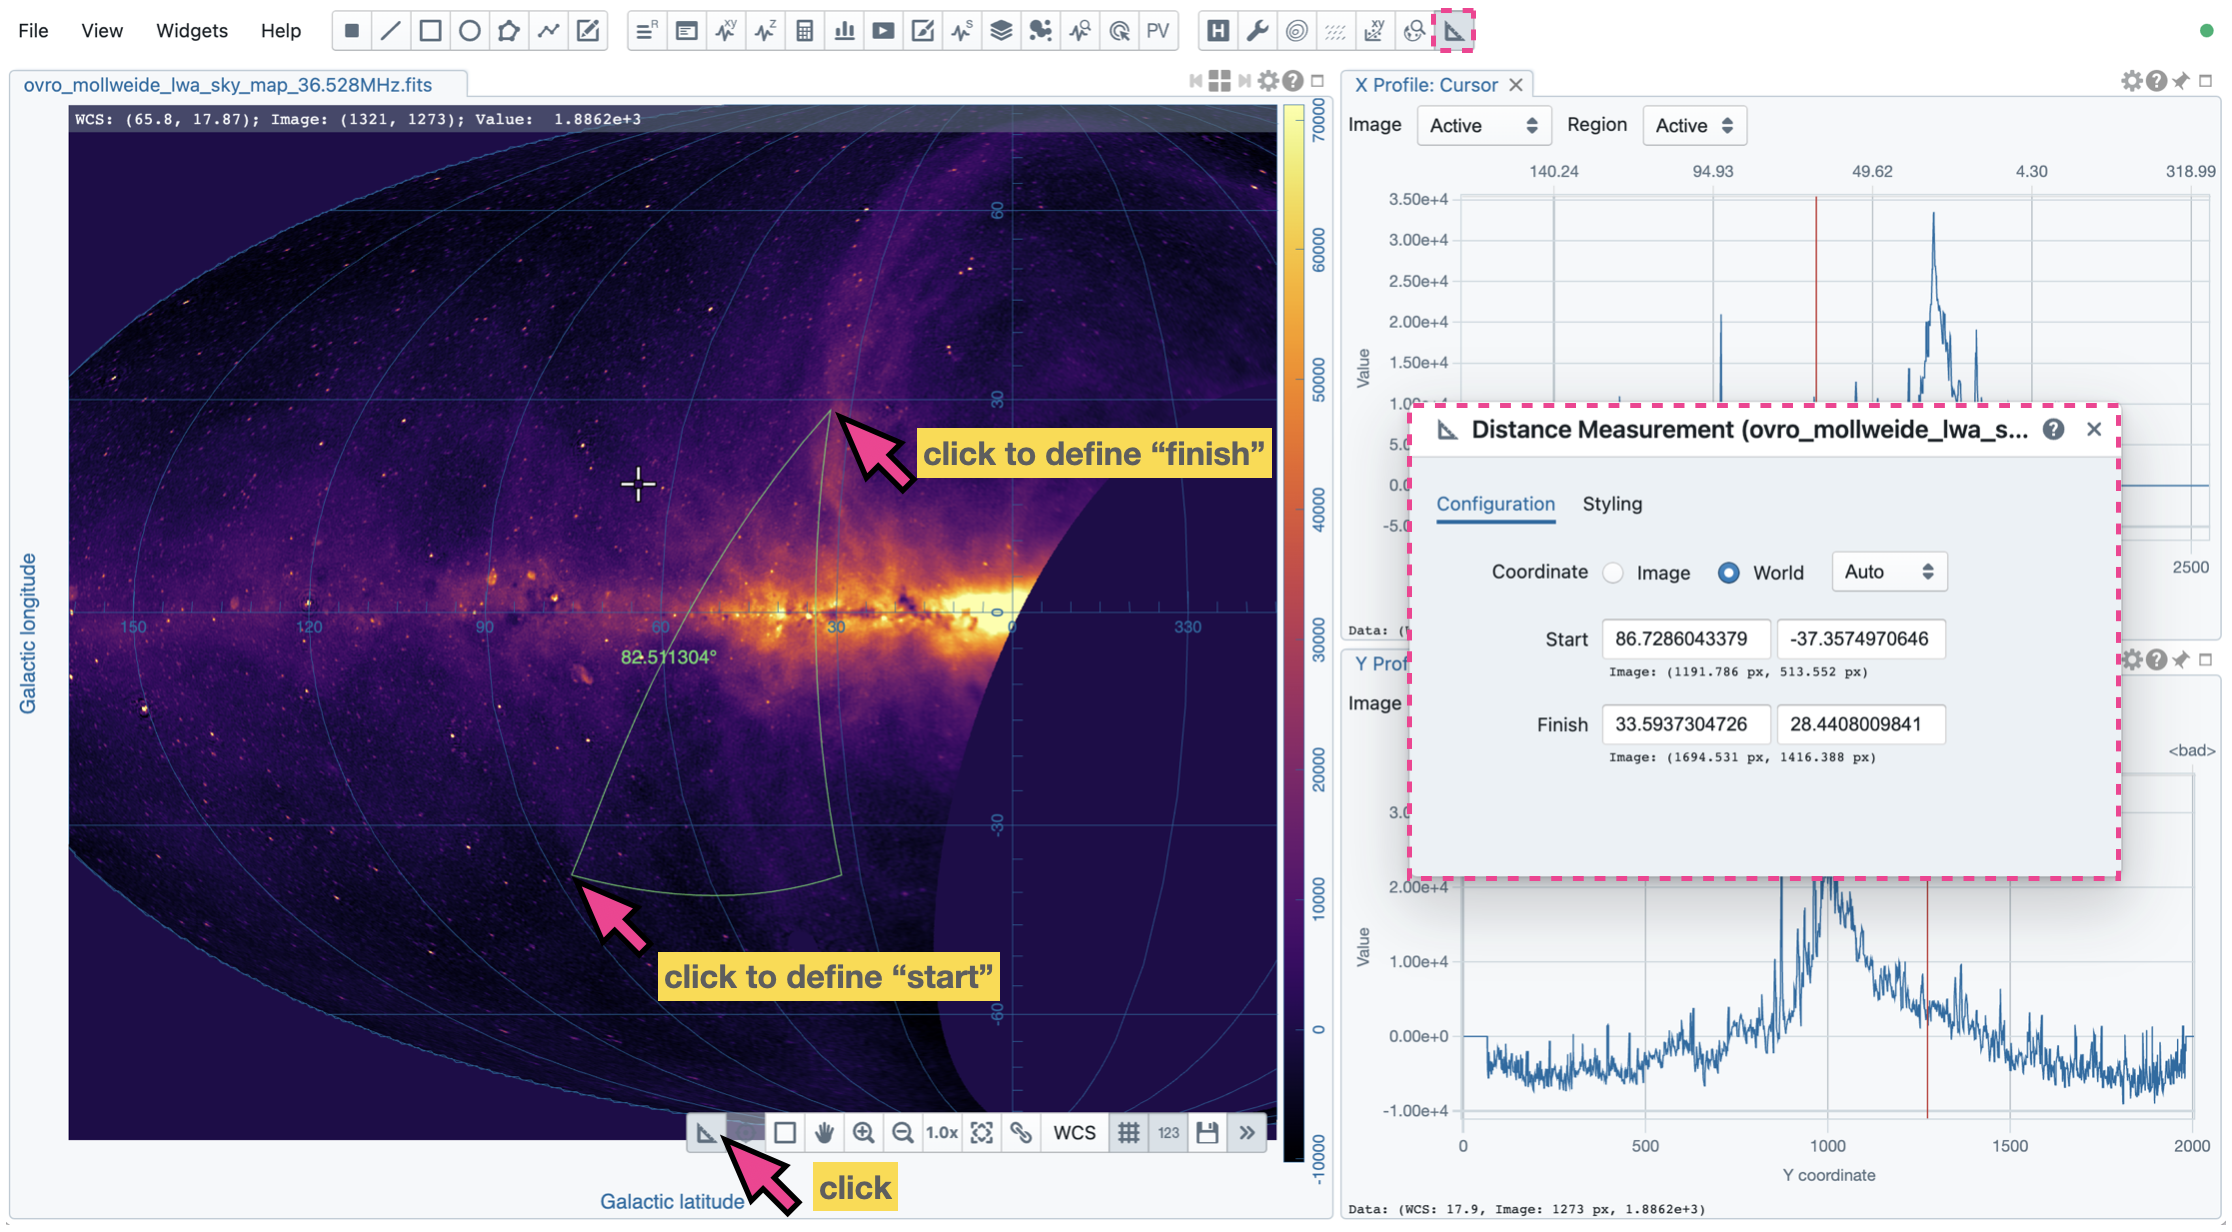
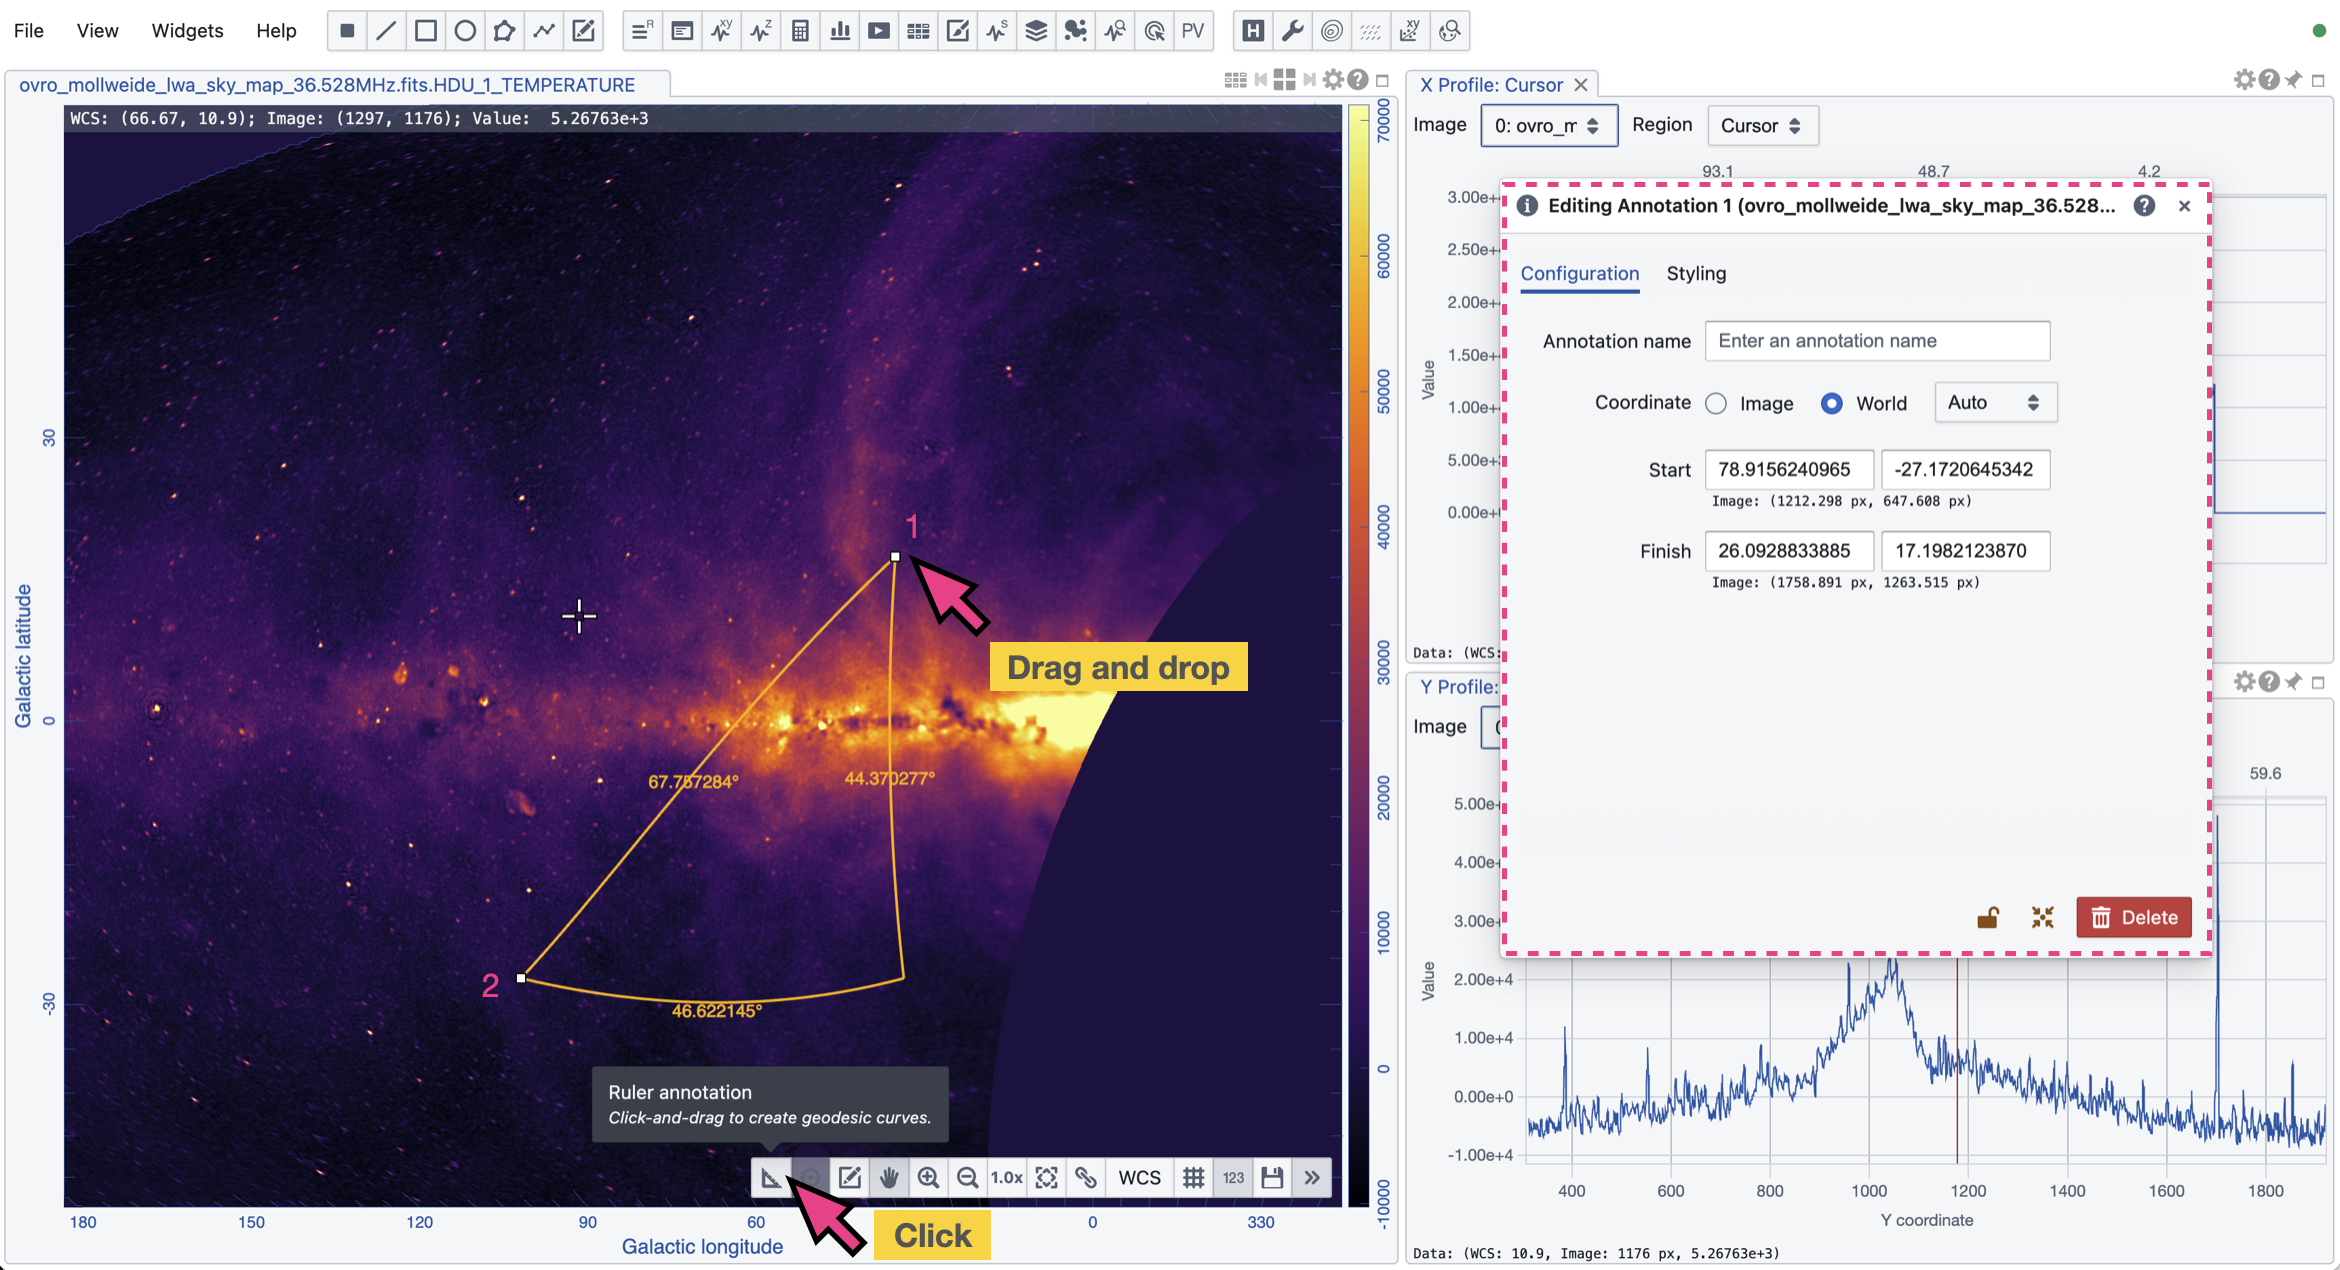
update region config dialog

Changed region(s): [[0.0, 0.0, 1.0, 1.0], [0.9892, 0.0, 1.0, 0.0308]]

diff --git a/source/region_configuration.rst b/source/region_configuration.rst
@@ -1,25 +1,61 @@
 Region configuration
 ====================
 
-work in progress...
+The Region Configuration Dialog providea an interface to configure the properties of a region of interest (ROI) or an annotation object (region for short hereafter). You can access the dialog by double-clicking on a region entry in the Region List Widget or by double-clicking on a region in the Image Viewer Widget.
 
+The dialog contains a "Configuration" tab and a "Styling" tab. The "Configuration" tab allows you to modify the properties of the region such as name and geometry. The "Styling" tab allows you to customize the appearance of the rendered region in the Image Viewer Widget. 
 
-
-
-
-.. _distance_measure_tool:
-
-Distance Measurement Tool
--------------------------
-The distance measurement tool is available from the toolbar of the Image Viewer or the dialog bar at the top of the GUI. To measure a geodesic distance on an image, you can use two mouse clicks to define a starting point and a finishing point, respectively, for the distance calculations. Alternatively, you can use the Distance Measurement Dialog to enter a pair of coordinates for the same purpose. 
-
-The result is visualized on the image, including the iso-longitude and iso-latitude geodesic lines. The appearance of the rendered geodesic lines can be customized in the "**Styling**" tab of the Distance Measurement Dialog. 
-
-You can have new measurements with pairs of clicks. Click the "**pan**" button in the toolbar to leave the state. A distance in pixel values will be provided if the geodesic distance cannot be calculated.
+The actual context in the two tabs depends on the type of the region or annotation. 
 
 .. raw:: html
 
-   <a href="_static/carta_fn_distance_measure.png" target="_blank">
-       <img src="_static/carta_fn_distance_measure.png" 
-           style="width:100%;height:auto;">
-   </a>
+   <img src="_static/carta_fn_region_config.png" 
+        style="width:80%;height:auto;">
+
+
+Using the buttons at the bottom of the dialog, you can also lock/unlock a region, center the region in the image viewer, or delete the region.
+
+
+Coordinate systems
+------------------
+The Region Configuration Dialog supports two major coordinate systems: world coordinates and image coordinates. The coordinate system can be selected with the "Coordinate" radio button and the dropdown menu in the "Configuration" tab. Auxiliary information about the other coordinate system is also displayed in the dialog.
+
+The supported coordinate systems are:
+
+- Auto: using the header information of the image to determine the coordinate system. This is the default option.
+- ICRS
+- FK5
+- FK4
+- Galactic
+- Ecliptic
+- Image coordinates
+
+When the reference system is changed in the Region Configuration Dialog, the coordinate system in the image viewer will be updated accordingly. 
+
+.. note::
+    The title of the Region Configuration Dialog contains the name of the spatial reference image. All the region properties are referenced to the spatial reference image and shared to all other matched images.
+
+
+.. warning::
+    If an image has visible projection distortions, the displayed "size" or "length" property of a region or an annotation object may not be accuate. The displayed number is based on the angular size of the reference pixel as defined in the image header and assume it is *fixed* across the image. The only exception is the "ruler" annotation object which applies the geodesic calculation to measure the distance between two points on the image. 
+    
+    
+    
+
+.. _distance_measure_tool:
+
+Distance measurement tool
+-------------------------
+The "ruler" annotation object in CARTA is used to measure the geodesic distance between two points on an image. This is particularly useful for astronomical images where the distance between celestial objects needs to be measured accurately. A shortcut button is avaialbe in the toolbar of the Image Viewer Widget to activate a distance measurement, effectively creating a "ruler" annotation object.
+
+The two points are defined by a pair of clicks in the Image Viewer Widget. Alternatively, you can use the Region Configuration Dialog to define the two points by entering their coordinates in the "Configuration" tab. 
+
+The result is visualized on the image, including the iso-longitude and iso-latitude geodesic lines. The appearance of the rendered geodesic lines can be customized in the "**Styling**" tab of the Region Configuration Dialog. 
+
+
+.. raw:: html
+
+   <img src="_static/carta_fn_distance_measure.png" 
+        style="width:100%;height:auto;">
+
+
